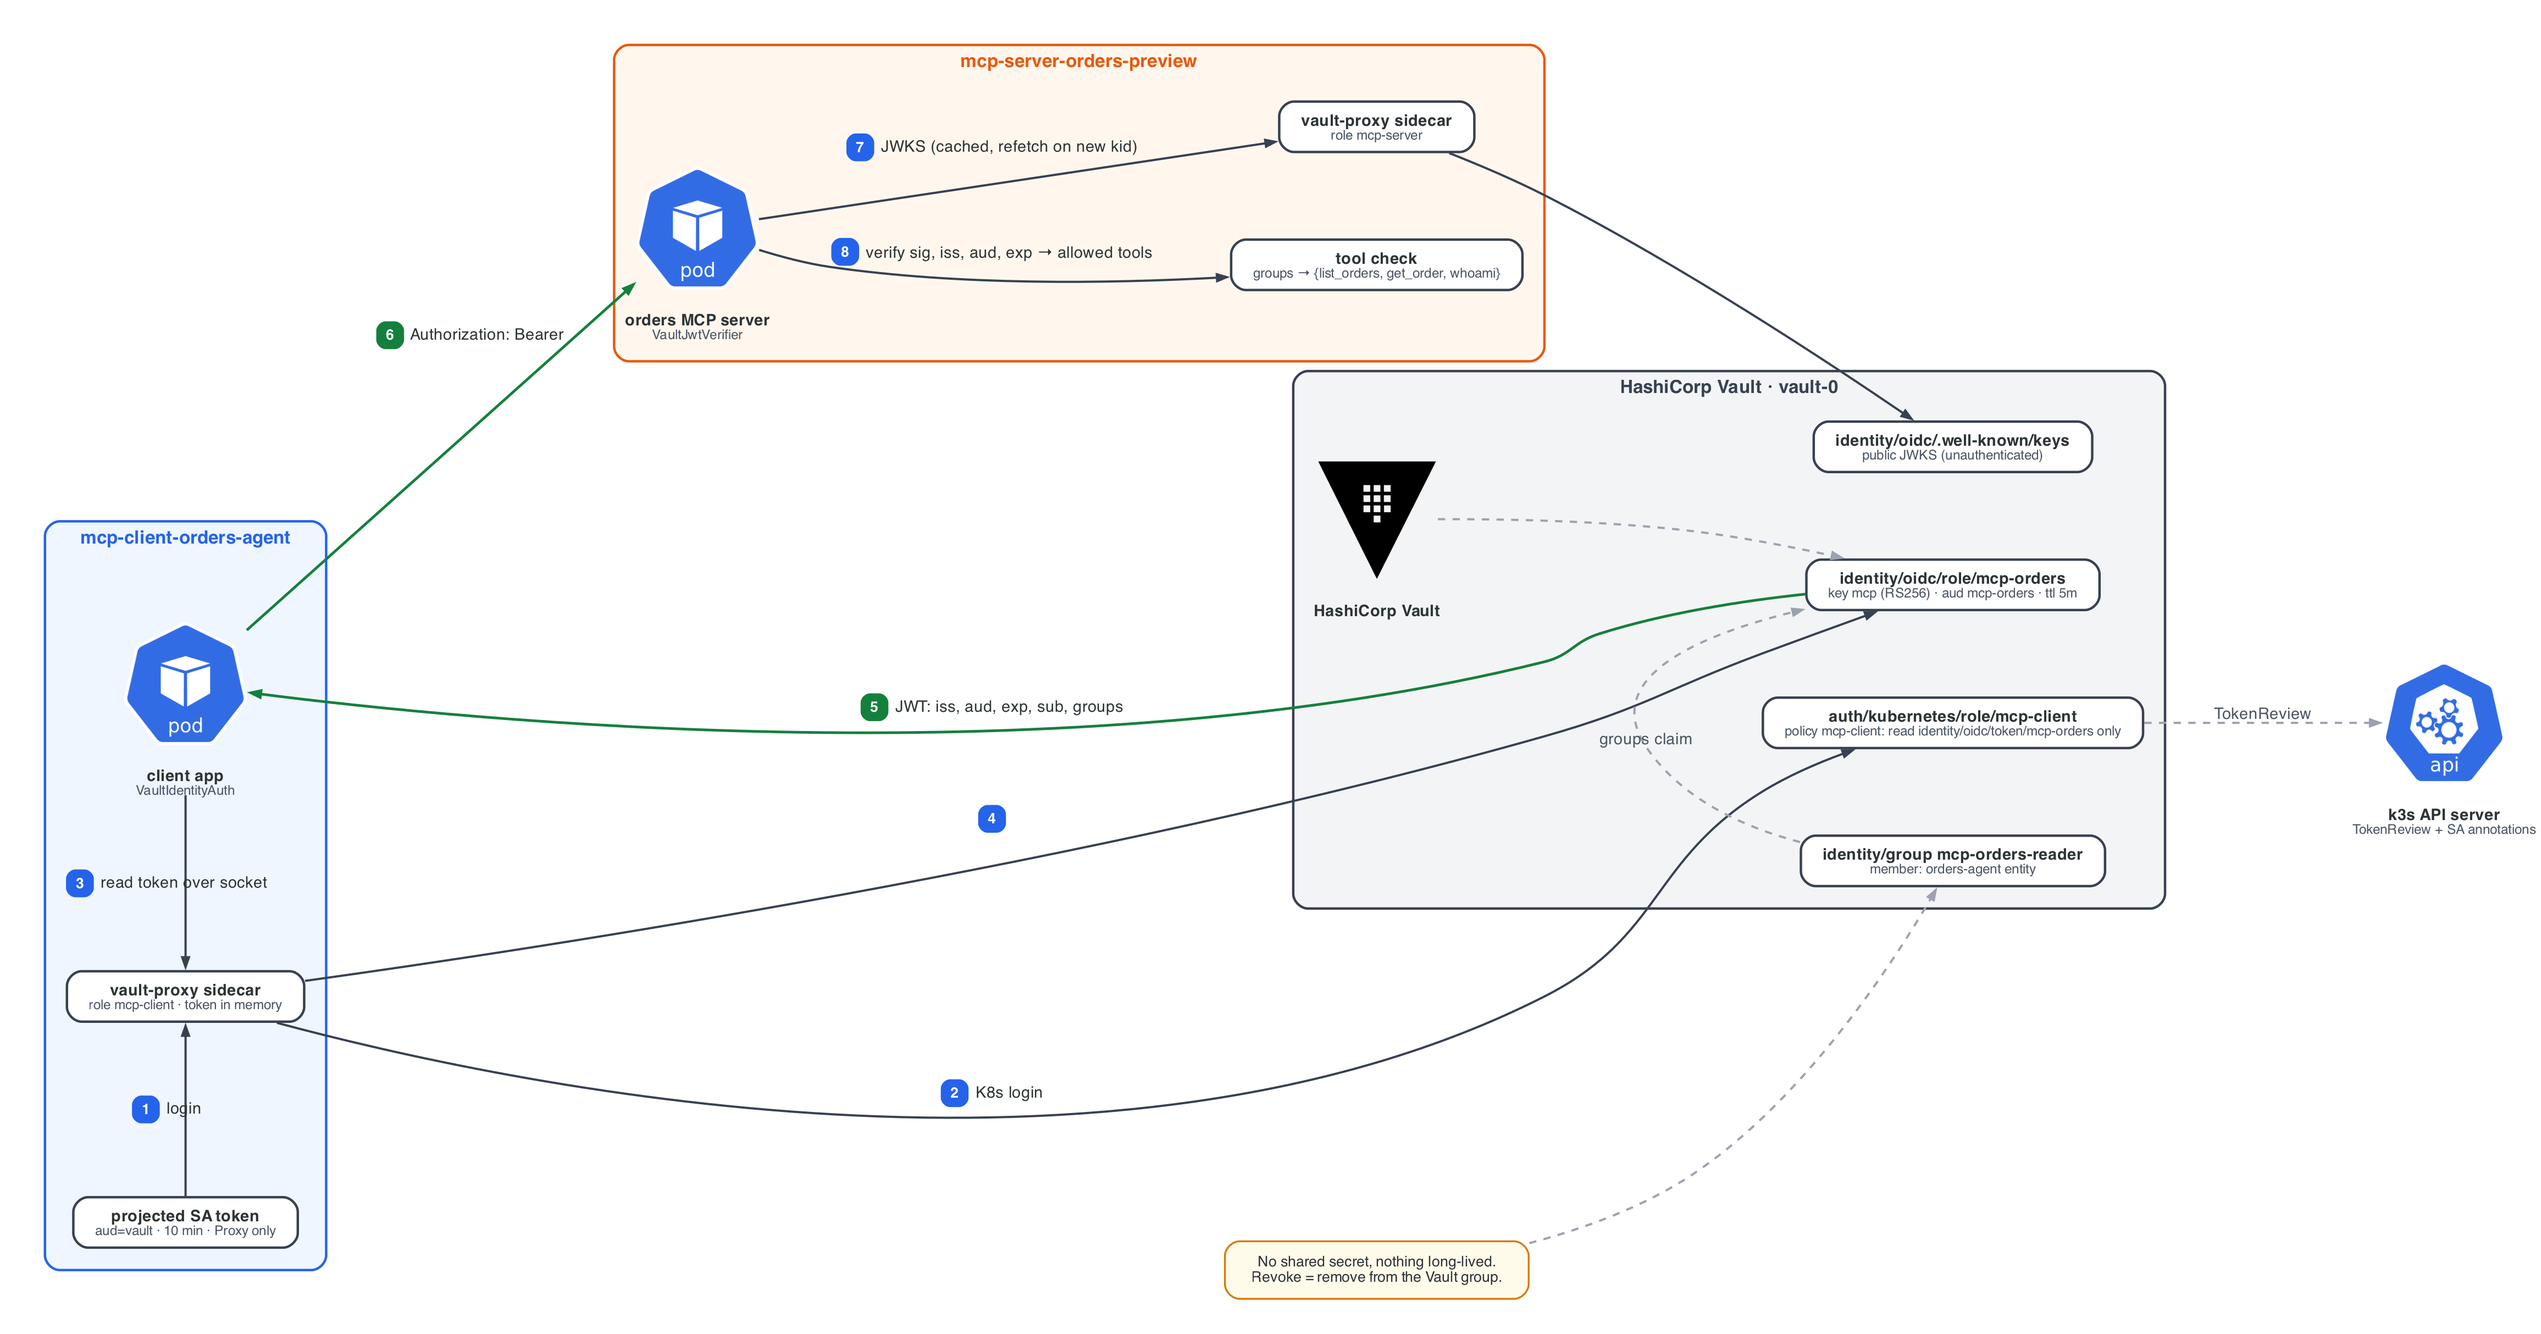
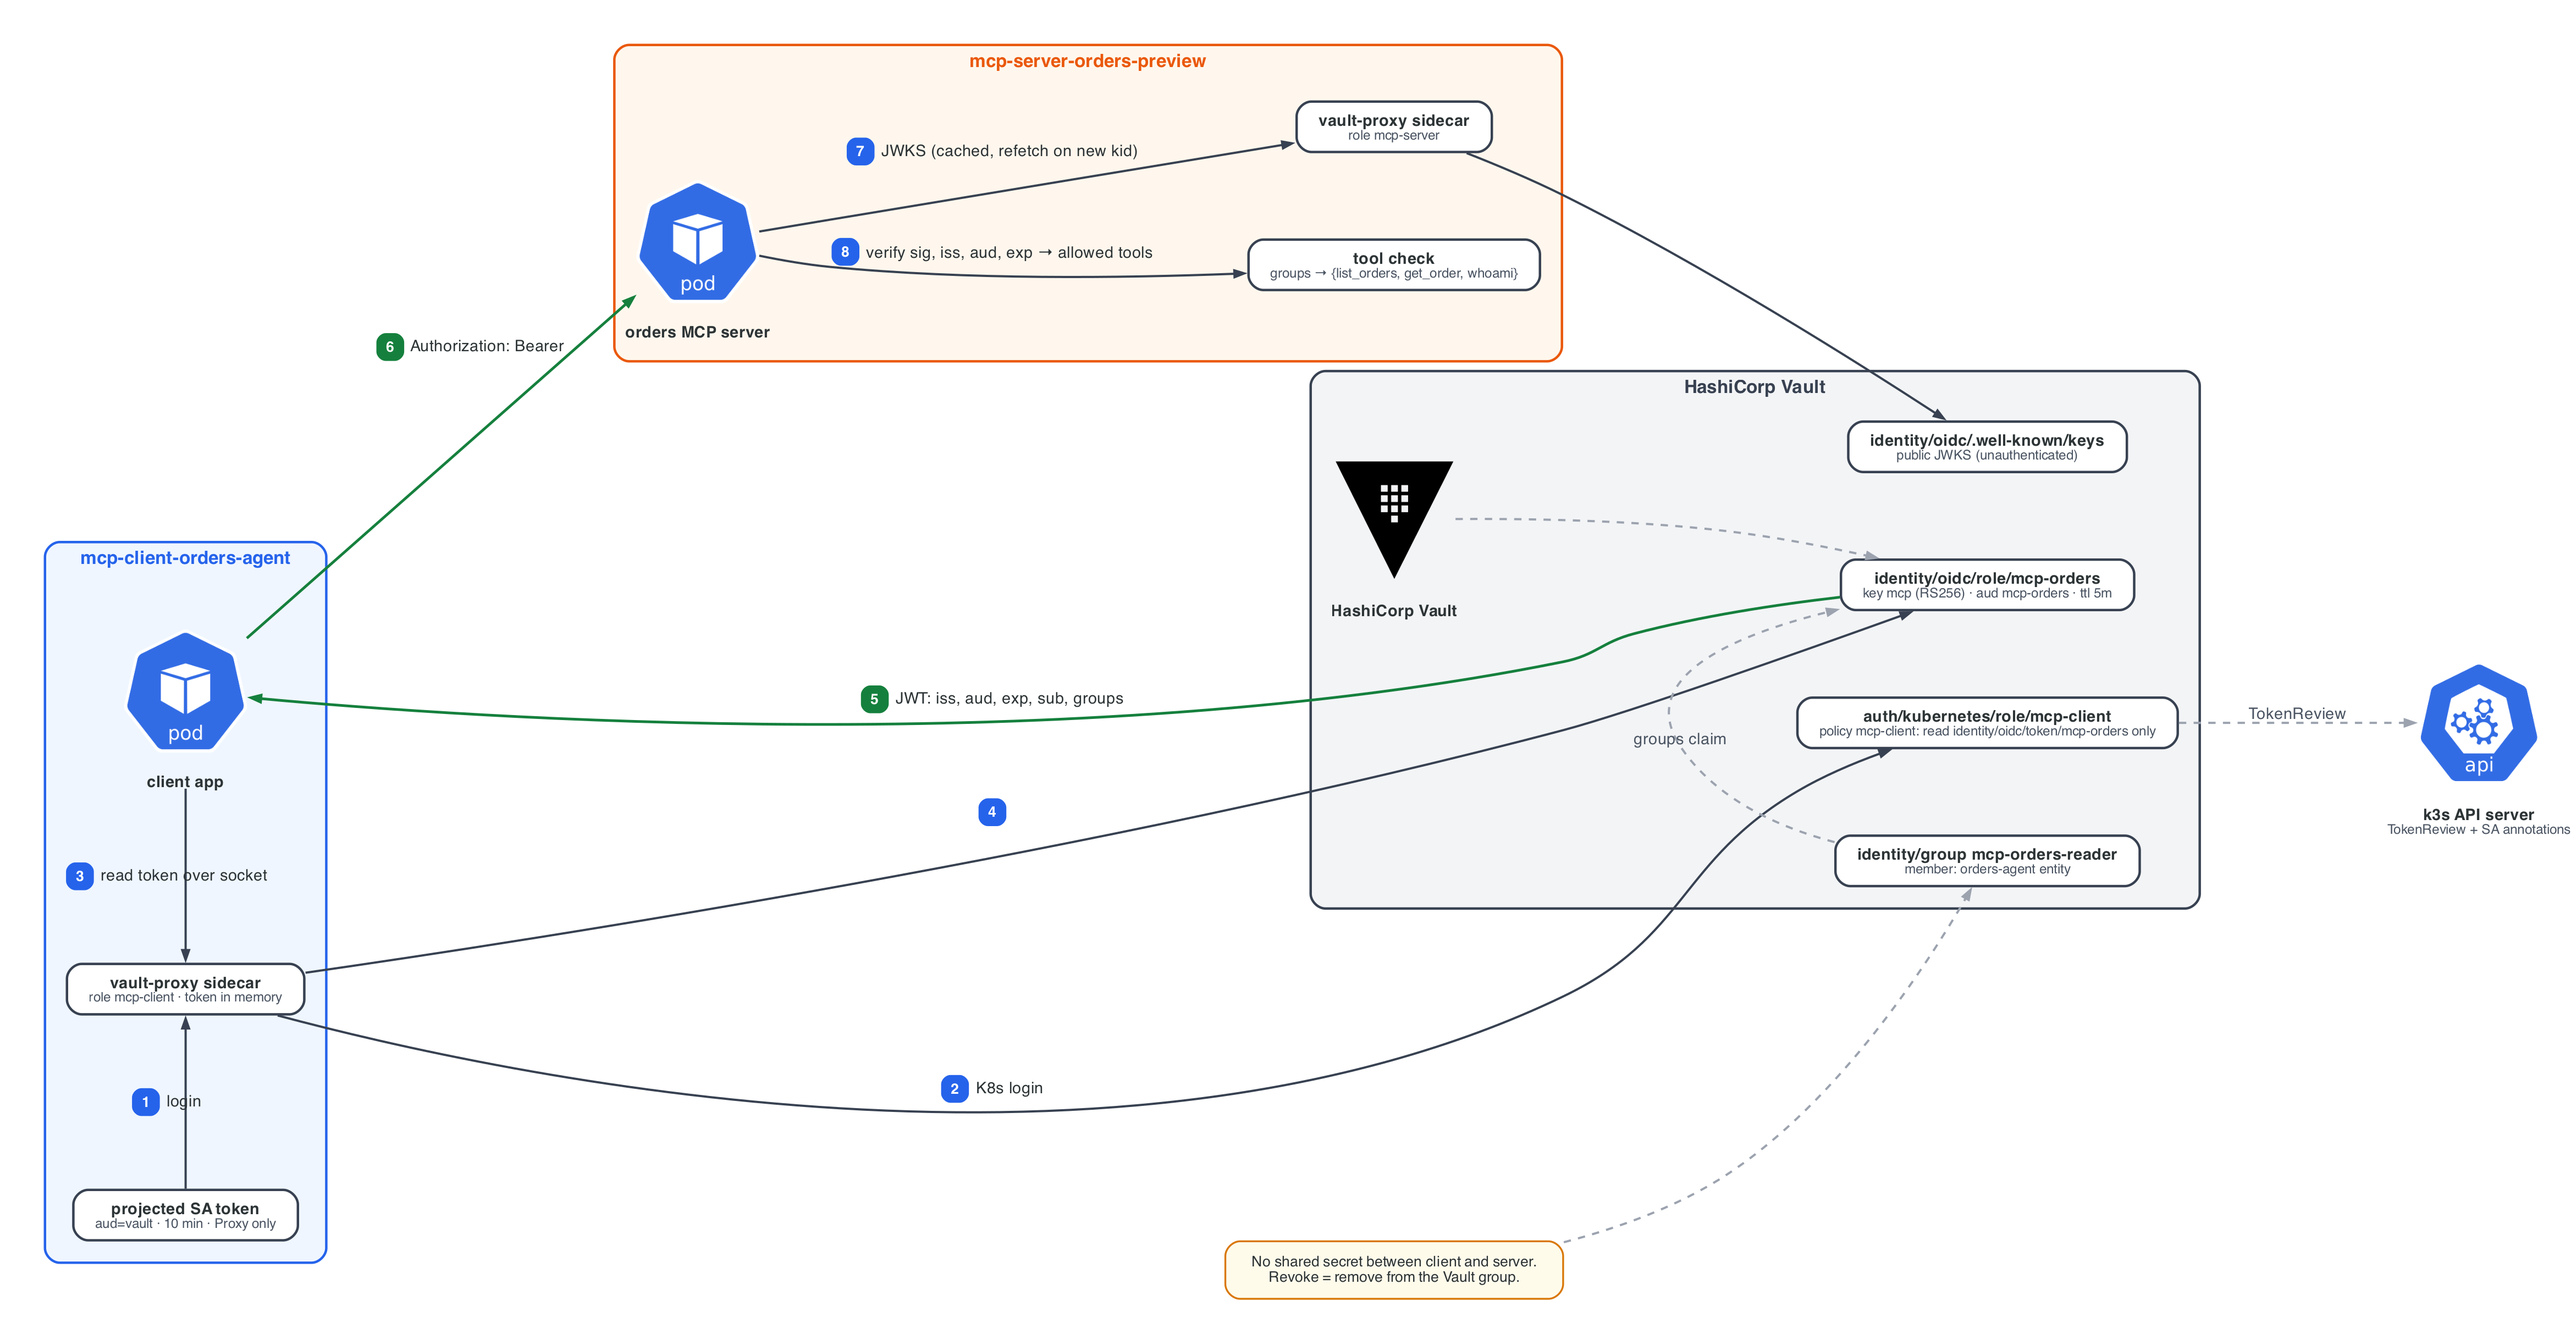
docs: simplify lab diagrams

diff --git a/docs/diagrams/common.py b/docs/diagrams/common.py
@@ -100,7 +100,7 @@ def laptop(title: str = "Laptop") -> Cluster:
     return group(title, GREEN, GREEN_FILL)
 
 
-def vault_ns(title: str = "HashiCorp Vault · vault-0") -> Cluster:
+def vault_ns(title: str = "HashiCorp Vault") -> Cluster:
     return group(title, GREY, GREY_FILL)
 
 
@@ -160,13 +160,18 @@ def note(text: str, **attrs) -> Node:
     )
 
 
-def _badge(n: int, text: str, colour: str) -> str:
+def _badge_row(n: int, text: str, colour: str) -> str:
     cell = (
         f'<td><table border="0" style="rounded" bgcolor="{colour}" cellpadding="3"><tr><td>'
         f'<font color="white" point-size="12"><b> {n} </b></font></td></tr></table></td>'
     )
     txt = f'<td align="left"> {text}</td>' if text else ""
-    return f'<<table border="0" cellspacing="0" cellpadding="1"><tr>{cell}{txt}</tr></table>>'
+    return f"<tr>{cell}{txt}</tr>"
+
+
+def _badge(n: int, text: str, colour: str) -> str:
+    row = _badge_row(n, text, colour)
+    return f'<<table border="0" cellspacing="0" cellpadding="1">{row}</table>>'
 
 
 def step(n: int, text: str = "", external: bool = False, **attrs) -> Edge:
@@ -187,6 +192,15 @@ def deliver(n: int | None = None, text: str = "", **attrs) -> Edge:
         else (f'<<font color="{GREEN}"><b>{text}</b></font>>' if text else "")
     )
     return Edge(label=lbl, color=GREEN, penwidth="2.2", **attrs)
+
+
+def exchange(request: tuple[int, str], reply: tuple[int, str], **attrs) -> Edge:
+    """Request (blue) and its reply (green) on one two-way edge, so their labels cannot overlap."""
+    gap = "&#160;" * 3  # keeps the curved edge clear of the text
+    rows = _badge_row(request[0], gap + request[1], BLUE)
+    rows += _badge_row(reply[0], gap + reply[1], GREEN)
+    lbl = f'<<table border="0" cellspacing="0" cellpadding="1">{rows}</table>>'
+    return Edge(label=lbl, reverse=True, **attrs)
 
 
 def ref(text: str = "", n: int | None = None, **attrs) -> Edge:

diff --git a/docs/diagrams/dynamic_db.py b/docs/diagrams/dynamic_db.py
@@ -5,6 +5,7 @@ from common import (
     data_ns,
     deliver,
     diagram,
+    exchange,
     icon,
     note,
     ref,
@@ -24,7 +25,7 @@ with diagram("dynamic-db", direction="LR"):
             "vault-proxy sidecar",
             "UNIX socket · force auto-auth token\ncaches and renews the lease",
         )
-        app = icon(Pod, "orders MCP server", "CredentialManager")
+        app = icon(Pod, "orders MCP server")
     with vault_ns():
         role = box(
             "auth/kubernetes/role/mcp-server",
@@ -36,7 +37,7 @@ with diagram("dynamic-db", direction="LR"):
         pg = icon(
             PostgreSQL,
             "PostgreSQL preview",
-            "orders.items (SELECT only)\npayments.* (no grant)",
+            "orders.items: SELECT\npayments.*: no grant",
         )
 
     same_rank(sa, proxy, app)
@@ -45,7 +46,10 @@ with diagram("dynamic-db", direction="LR"):
     sa >> step(1, "login") >> proxy >> step(2) >> role
     (
         app
-        >> step(3, "GET /v1/database/creds/... over socket")
+        >> exchange(
+            (3, "GET /v1/database/creds/... over socket"),
+            (5, "username + password (memory only)"),
+        )
         >> proxy
         >> step(4)
         >> creds
@@ -55,7 +59,6 @@ with diagram("dynamic-db", direction="LR"):
         >> ref("CREATE ROLE v-... IN ROLE preview_orders_ro<br/>VALID UNTIL expiry")
         >> pg
     )
-    proxy >> deliver(5, "username + password (memory only)") >> app
     app >> deliver(6, "fixed, parameterised SELECTs") >> pg
     (
         note(

diff --git a/docs/diagrams/identity_broker.py b/docs/diagrams/identity_broker.py
@@ -21,7 +21,7 @@ with diagram("identity-broker", direction="LR", nodesep="1.0", ranksep="1.6"):
     with client_ns("mcp-client-orders-agent"):
         sa = box("projected SA token", "aud=vault · 10 min · Proxy only")
         proxy_c = box("vault-proxy sidecar", "role mcp-client · token in memory")
-        app_c = icon(Pod, "client app", "VaultIdentityAuth")
+        app_c = icon(Pod, "client app")
     api = icon(APIServer, "k3s API server", "TokenReview + SA annotations")
     with vault_ns():
         auth = box(
@@ -35,7 +35,7 @@ with diagram("identity-broker", direction="LR", nodesep="1.0", ranksep="1.6"):
         jwks = box("identity/oidc/.well-known/keys", "public JWKS (unauthenticated)")
         vault = icon(Vault, "HashiCorp Vault")
     with server_ns("mcp-server-orders-preview"):
-        mcp = icon(Pod, "orders MCP server", "VaultJwtVerifier")
+        mcp = icon(Pod, "orders MCP server")
         proxy_s = box("vault-proxy sidecar", "role mcp-server")
         tools = box("tool check", "groups → {list_orders, get_order, whoami}")
 
@@ -54,7 +54,7 @@ with diagram("identity-broker", direction="LR", nodesep="1.0", ranksep="1.6"):
     mcp >> step(8, "verify sig, iss, aud, exp → allowed tools") >> tools
     (
         note(
-            "No shared secret, nothing long-lived.<br/>Revoke = remove from the Vault group."
+            "No shared secret between client and server.<br/>Revoke = remove from the Vault group."
         )
         >> ref()
         >> grp

diff --git a/docs/diagrams/laptop_token.py b/docs/diagrams/laptop_token.py
@@ -19,7 +19,7 @@ from diagrams.onprem.security import Vault
 
 with diagram("laptop-token", direction="LR"):
     with laptop("Laptop"):
-        you = icon(User, "scripts/mcp-token.sh", "or .mcp.json headersHelper")
+        you = icon(User, "scripts/<br/>mcp-token.sh", "or .mcp.json\nheadersHelper")
     api = icon(
         APIServer,
         "k3s API server",

diff --git a/docs/diagrams/architecture.py b/docs/diagrams/architecture.py
@@ -35,7 +35,7 @@ with diagram("architecture", direction="LR"):
             server = icon(
                 Pod, "orders MCP server", "Streamable HTTP :8080/mcp\nNodePort 30800"
             )
-        with vault_ns("HashiCorp Vault"):
+        with vault_ns():
             vault = icon(
                 Vault,
                 "HashiCorp Vault",
